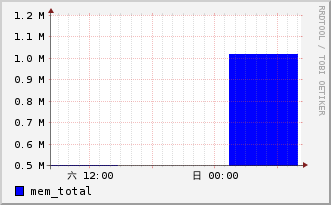
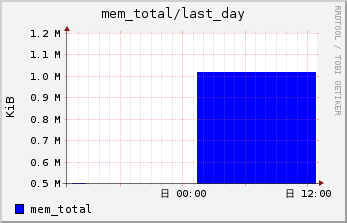
add info on graph

diff --git a/ganglia/templates/ganglia/detail.html b/ganglia/templates/ganglia/detail.html
@@ -15,7 +15,7 @@
       <ul class=list-group>
         {% for metric in metric_list %}
         <li class=list-group-item>
-          <a href="">{{metric.mtc_name}}</a>
+          <a>{{metric.mtc_name}}</a>
         </li>
         {% endfor %}
       </ul>
@@ -31,29 +31,7 @@
       {% endif %}
     </div>
     <div class="col-md-10">
-	{% for metric in metric_list %}
-	  <h4 align="center">{{metric.mtc_name}} graph</h4>
-	  <div align="center" class="row">
-	    <div class="col-md-4 col-md-offset-1">
-		{% load staticfiles%}
-	        <img src="{% static metric.img_path.0 %}"/>
-	    </div>
-	    <div class="col-md-4 col-md-offset-1">
-		{% load staticfiles%}
-	        <img src="{% static metric.img_path.1 %}"/>
-	    </div>
-	  </div>
-	  <div align="center" class="row">
-	    <div class="col-md-4 col-md-offset-1">
-		{% load staticfiles%}
-	        <img src="{% static metric.img_path.2 %}"/>
-	    </div>
-	    <div class="col-md-4 col-md-offset-1">
-		{% load staticfiles%}
-	        <img src="{% static metric.img_path.3 %}"/>
-	    </div>
-	  </div>
-	{% endfor%}
+	{% include 'ganglia/metric_png.html' %}
     </div>
   </div>
 </div>

diff --git a/ganglia/templates/ganglia/metric_png.html b/ganglia/templates/ganglia/metric_png.html
@@ -1,0 +1,24 @@
+{% for metric in metric_list %}
+<h4 align="center">{{metric.mtc_name}} graph</h4>
+<div align="center" class="row">
+  <div class="col-md-4 col-md-offset-1">
+    {% load staticfiles%}
+    <img src="{% static metric.img_path.0 %}"/>
+  </div>
+  <div class="col-md-4 col-md-offset-1">
+    {% load staticfiles%}
+    <img src="{% static metric.img_path.1 %}"/>
+  </div>
+</div>
+<br />
+<div align="center" class="row">
+  <div class="col-md-4 col-md-offset-1">
+    {% load staticfiles%}
+    <img src="{% static metric.img_path.2 %}"/>
+  </div>
+  <div class="col-md-4 col-md-offset-1">
+    {% load staticfiles%}
+    <img src="{% static metric.img_path.3 %}"/>
+  </div>
+</div>
+{% endfor %}

diff --git a/ganglia/util.py b/ganglia/util.py
@@ -57,20 +57,26 @@ def generate_img(host_name,metric_name,time):
 	img_path = "/home/ganglia/django_proj/monitor/ganglia/static/ganglia/images/"
 	rrd_path = "/var/lib/ganglia/rrds/my\ cluster/"+host_name+"/"+metric_name.lower()+".rrd"
 	if time == "hour":
-		rrdtool_graph(img_path+metric_name+'_hour.png',rrd_path,'end-1h','now',metric_name,'180')
+		rrdtool_graph(img_path+metric_name+'_hour.png',rrd_path,'end-1h','now',metric_name,'180',time)
 	elif time == "day":
-		rrdtool_graph(img_path+metric_name+'_day.png',rrd_path,'end-1d','now',metric_name,'4320')
+		rrdtool_graph(img_path+metric_name+'_day.png',rrd_path,'end-1d','now',metric_name,'4320',time)
 	elif time == "week":
-		rrdtool_graph(img_path+metric_name+'_week.png',rrd_path,'end-1w','now',metric_name,'30240')
+		rrdtool_graph(img_path+metric_name+'_week.png',rrd_path,'end-1w','now',metric_name,'30240',time)
 	elif time == "month":
-		rrdtool_graph(img_path+metric_name+'_month.png',rrd_path,'end-1m','now',metric_name,'129600')
+		rrdtool_graph(img_path+metric_name+'_month.png',rrd_path,'end-1m','now',metric_name,'129600',time)
 	else:
 		return 
 
 
-def rrdtool_graph(i_path,r_path,start,end,mtric_name,step):	
-	print r_path
-	command = "rrdtool graph %s --end %s --start %s --width 250 --height 150 DEF:ds=%s:sum:AVERAGE:step=%s AREA:ds#0000FF:%s" % (i_path,end,start,r_path,step,mtric_name)
+def rrdtool_graph(i_path,r_path,start,end,mtric_name,step,time):	
+	vert_label = "default"
+	if "cpu" in mtric_name:
+		vert_label = "%"
+	elif "mem" in mtric_name:
+		vert_label = "KiB"
+	elif "disk" in mtric_name:
+		vert_label = "GB"
+	command = "rrdtool graph %s --end %s --start %s --title %s --vertical-label %s --width 250 --height 150 DEF:ds=%s:sum:AVERAGE:step=%s AREA:ds#0000FF:%s" % (i_path,end,start,mtric_name+"/last_"+time,vert_label,r_path,step,mtric_name)
 	os.system(command)
 
 
